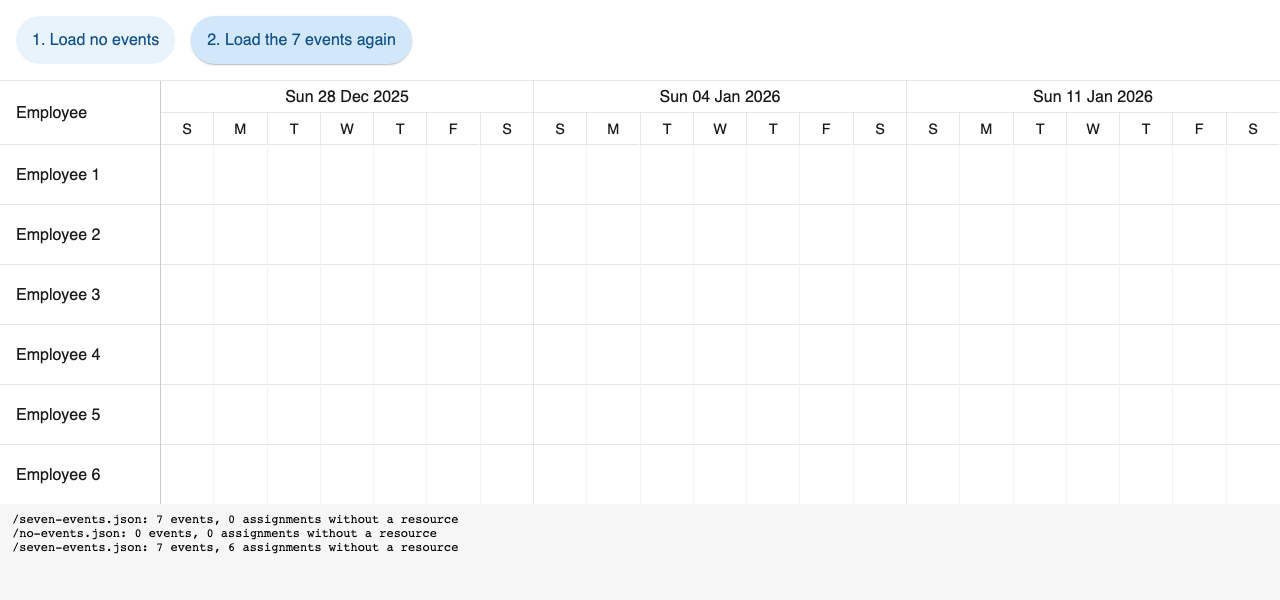
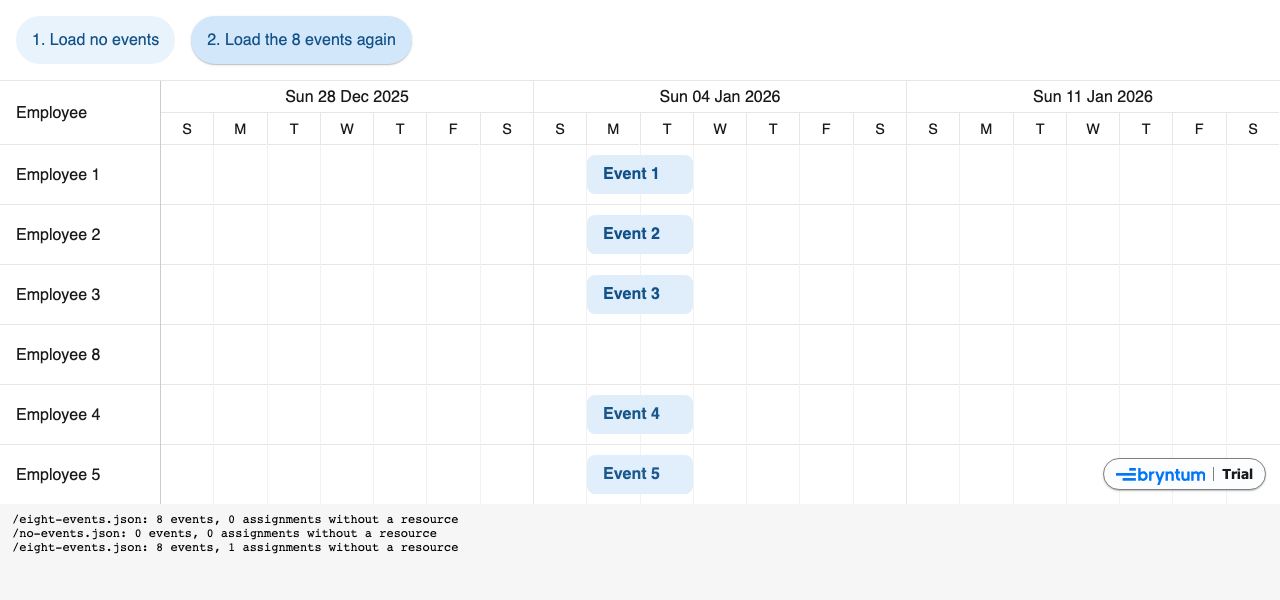
Repro still red on Bryntum 8.0.0 and 8.0.2: a reload whose row list gains a row after an empty load

diff --git a/main.js b/main.js
@@ -1,9 +1,9 @@
-import { ProjectModel, SchedulerPro } from '@bryntum/schedulerpro';
+import { ProjectModel, Scheduler } from '@bryntum/scheduler-enterprise';
 
-// Both files hold the same 7 resources. seven-events.json has one event per resource, no-events.json has none.
+// no-events.json: 7 resources, no events. eight-events.json: the same 7 resources plus a new one (id 8) in the middle of the list, one event per resource.
 const project = new ProjectModel({
     lazyLoad  : true, // without it, all 7 bars come back
-    transport : { load : { url : '/seven-events.json', method : 'GET' } }
+    transport : { load : { url : '/eight-events.json', method : 'GET' } }
 });
 
 const loadFrom = async url => {
@@ -14,7 +14,7 @@ const loadFrom = async url => {
     log(`${url}: ${project.eventStore.count} events, ${orphans} assignments without a resource`);
 };
 
-new SchedulerPro({
+new Scheduler({
     appendTo  : 'container',
     project,
     startDate : '2026-01-01',
@@ -22,12 +22,12 @@ new SchedulerPro({
     columns   : [{ text : 'Employee', field : 'name', width : 160 }],
     tbar      : [
         { type : 'button', text : '1. Load no events', onClick : () => loadFrom('/no-events.json') },
-        { type : 'button', text : '2. Load the 7 events again', onClick : () => loadFrom('/seven-events.json') }
+        { type : 'button', text : '2. Load the 8 events again', onClick : () => loadFrom('/eight-events.json') }
     ]
 });
 
 const log = message => { document.getElementById('log').textContent += `${message}\n`; };
 
 window.loadFrom = loadFrom;
-await loadFrom('/seven-events.json');
+await loadFrom('/eight-events.json');
 window.ready = true;

diff --git a/index.html b/index.html
@@ -3,8 +3,8 @@
 <head>
     <meta charset="UTF-8">
     <title>Reload after an empty load paints one bar</title>
-    <link rel="stylesheet" href="/node_modules/@bryntum/schedulerpro/schedulerpro.css">
-    <link rel="stylesheet" href="/node_modules/@bryntum/schedulerpro/material3-light.css">
+    <link rel="stylesheet" href="/node_modules/@bryntum/scheduler-enterprise/scheduler.css">
+    <link rel="stylesheet" href="/node_modules/@bryntum/scheduler-enterprise/material3-light.css">
     <style>
         body { margin: 0; font-family: sans-serif; display: flex; flex-direction: column; height: 100vh; }
         #container { flex: 1; min-height: 0; }

diff --git a/README.md b/README.md
@@ -1,32 +1,40 @@
-# Lazy-loaded project: reloading after an empty load paints only one event
+# Lazy-loaded project: reloading after an empty load paints one bar fewer
 
-Minimal repro for a question on the Bryntum forum. Scheduler Pro 7.3.7, plain JS + Vite, the stock `AjaxTransport`
-reading two static JSON files.
+Minimal repro for [support#13943](https://github.com/bryntum/support/issues/13943) (closed as fixed in 7.3.8) and the
+[forum thread](https://forum.bryntum.com/viewtopic.php?f=44&t=35740). Still reproduces on **8.0.0 and 8.0.2**.
+Scheduler (`@bryntum/scheduler-enterprise`), plain JS + Vite, the stock `AjaxTransport` reading two static JSON files.
+Bryntum 8 is on the public npm registry: if your `@bryntum` scope still points to npm.bryntum.com, install with `npm install --@bryntum:registry=https://registry.npmjs.org`.
 
 ## Run
 
 ```sh
-npm install   # needs access to npm.bryntum.com (licensed or trial account)
+npm install
 npm run dev
 ```
 
-Open the URL Vite prints. The 7 events show, one per resource.
+Open the URL Vite prints. 8 resources, 8 events, one per resource.
 
-1. Click **1. Load no events**. The project loads `no-events.json`: same 7 resources, no events. The view is empty.
-2. Click **2. Load the 7 events again**. The project loads `seven-events.json` again.
+1. Click **1. Load no events**. The project loads `no-events.json`: 7 resources, no events. The view is empty.
+2. Click **2. Load the 8 events again**. The project loads `eight-events.json`: the same 7 resources plus a new one
+   (id 8) in the middle of the list, one event each.
 
-Only one event bar comes back, out of 7. The log under the scheduler shows 7 events and 6 assignments without a
-resource. Each assignment still has its `resourceId`, and that resource is in the store.
+Only 7 bars come back, out of 8. The log shows 8 events and 1 assignment without a resource: the event of the
+resource inserted in the middle. That resource is in the store and its row is drawn, without its bar.
 
-![Only one bar after the reload](screenshots/after-reload.png)
+![One bar missing after the reload](screenshots/after-reload.png)
 
 `npm run repro` (in a second terminal) clicks both buttons headless and prints the bar counts.
 
 ## What changes the result
 
-- Remove `lazyLoad: true`: all 7 bars come back.
-- Load the 7 events twice in a row, without the empty load in between: all 7 bars come back.
-- Reload through `project.resourceStore.load()` instead of `project.load()` (what our app does): same result, one bar.
+- Remove `lazyLoad: true`: all 8 bars come back.
+- Same 7 resources in both loads (no row inserted by the second one): all bars come back. This is why the first repro
+  (7.3.7, same resources in both files) looked fixed in 8.x: it exercised only the case of an unchanged row list.
+- Reload through `project.resourceStore.load()` instead of `project.load()`: same result.
+
+In our app (Planning, Areas view) it is the same gesture: an empty month, then Today, where the full month brings one
+more area than the empty one. Without our workaround one area row stays without its bar on every try; with it, all
+rows are drawn.
 
 ## Workaround we use
 
